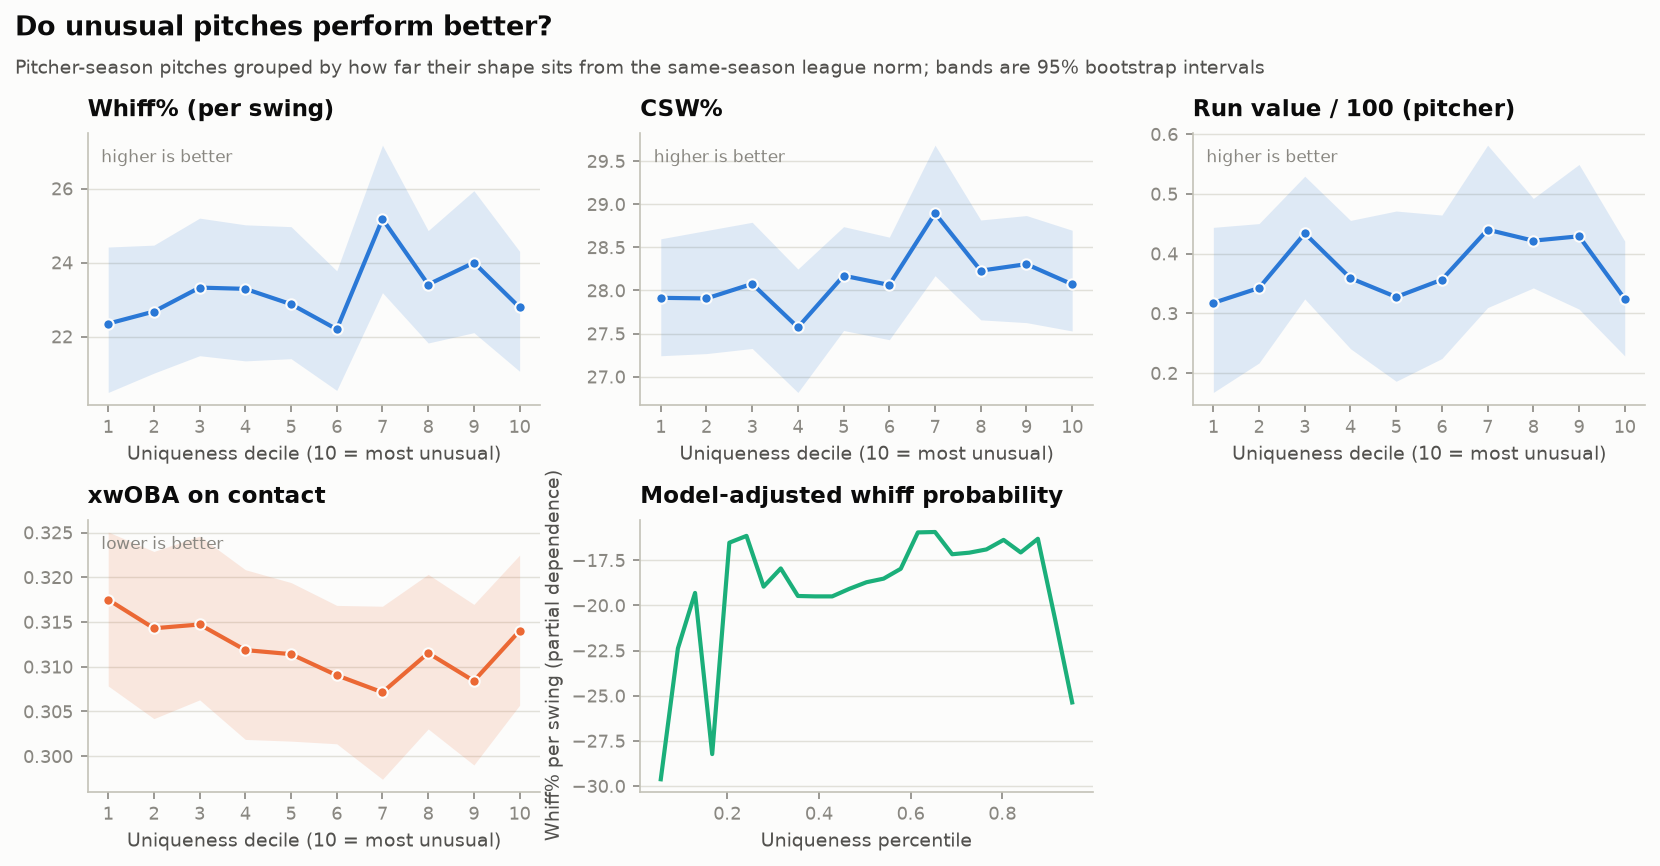
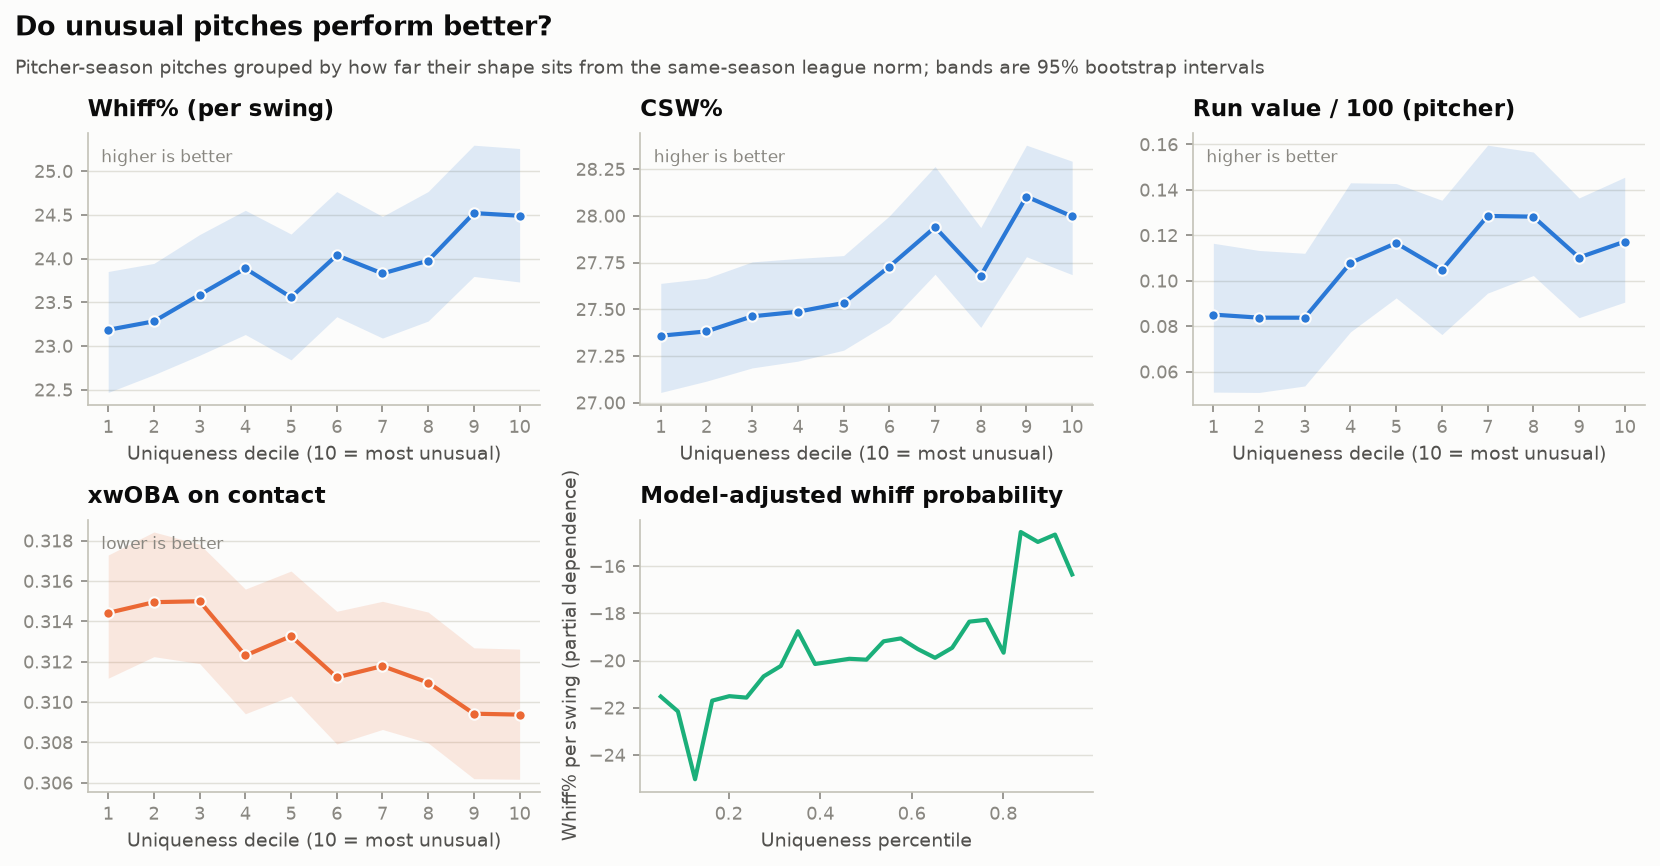
Replace fragile mixed model with an explicit within/between decomposition
MixedLM failed with singular matrices on three of four outcomes: the outcome
variances span five orders of magnitude and rescaling only rescued one. Pitcher-
by-family fixed effects absorbed by demeaning give the identical within
estimand, plus a companion between estimator that makes the selection channel
explicit. All four outcomes now estimate.

Claude-Session: https://claude.ai/code/session_01QgPyEmY3E2CMEeKDLGXdnm

diff --git a/analysis/scripts/20_outlier_effectiveness.py b/analysis/scripts/20_outlier_effectiveness.py
@@ -6,10 +6,10 @@ through four models that fail in different ways:
 
 1. Decile gradient -- assumption-free, but says nothing about why.
 2. Spline regression with controls -- flexible shape, but between-pitcher.
-3. Mixed model with a pitcher random intercept -- asks the within-pitcher
-   question: when a given pitcher's pitch becomes more unusual, does it get
-   better? This is what separates "unusual pitches are good" from "good
-   pitchers throw unusual pitches".
+3. Within/between decomposition -- the within estimator holds the pitcher
+   fixed and asks whether his own pitch improves as it drifts from the norm;
+   the between estimator asks whether the pitchers who own unusual pitches are
+   simply better. This separates the effect from the selection.
 4. Gradient boosting on the pitch grain -- does uniqueness add predictive
    signal beyond velocity, movement and location?
 
@@ -143,47 +143,76 @@ def spline_models(ars: pd.DataFrame) -> pd.DataFrame:
     return pd.DataFrame(rows)
 
 
-def mixed_models(ars: pd.DataFrame) -> pd.DataFrame:
-    """Pitcher random intercept: the within-pitcher uniqueness question.
+def within_between_models(ars: pd.DataFrame) -> pd.DataFrame:
+    """Separate "this pitch got weirder" from "weird pitchers are better".
 
-    uniq_pct is split into a pitcher's career mean (between component) and the
-    season-to-season deviation from it (within component). The within
-    coefficient answers whether the same pitcher's pitch improves when it drifts
-    away from the league.
+    Two estimators on the same panel of pitcher-pitches observed in at least
+    two seasons:
+
+    * **within** — pitcher-by-family fixed effects absorbed by demeaning, so
+      the coefficient comes only from a given pitcher's own pitch moving in and
+      out of the league norm across seasons. This is the causal-flavoured one:
+      pitcher talent is held constant by construction.
+    * **between** — one row per pitcher-pitch, regressing career-average
+      outcome on career-average uniqueness. This captures selection: whether
+      the pitchers who own unusual pitches are simply better.
+
+    A mixed model was tried first and proved numerically fragile: outcome
+    variances here span five orders of magnitude (whiff% around 80, xwOBAcon
+    around 0.0015) and three of four outcomes failed with singular matrices.
+    Demeaning gives the identical within estimand without the fit.
     """
     d = ars.dropna(subset=["uniq_pct"]).copy()
     d["velo_z"] = d.groupby(["family", "game_year"])["release_speed"].transform(
         lambda s: (s - s.mean()) / s.std(ddof=1))
     grp = d.groupby(["pitcher", "family"])["uniq_pct"]
     d["uniq_between"] = grp.transform("mean")
-    d["uniq_within"] = d["uniq_pct"] - d["uniq_between"]
-    d["year_f"] = d["game_year"].astype(str)
-    # keep pitcher-pitches observed in at least two seasons: only they carry
-    # within-pitcher information
     d["n_seasons"] = grp.transform("size")
+    d["unit"] = (d["pitcher"].astype(str) + "|" + d["family"].astype(str))
+
+    controls = ["velo_z", "zone_pct", "platoon_share"]
     rows = []
     for col in ["whiff_pct_eb", "csw_pct_eb", "rv100_eb", "xwobacon_eb"]:
-        sub = d.dropna(subset=[col, "velo_z", "zone_pct"])
+        sub = d.dropna(subset=[col] + controls)
         sub = sub[sub["n_seasons"] >= 2]
-        if len(sub) < 300 or sub["uniq_within"].abs().max() < 1e-9:
+        if len(sub) < 300:
             continue
-        try:
-            m = smf.mixedlm(
-                f"{col} ~ uniq_within + uniq_between + velo_z + zone_pct "
-                "+ platoon_share + C(family) + C(year_f)",
-                data=sub, groups=sub["pitcher"],
-            ).fit(method="lbfgs", maxiter=200)
-        except Exception as exc:  # pragma: no cover - defensive
-            print(f"  mixed model failed for {col}: {exc}")
-            continue
+
+        # ---- within: absorb pitcher-by-family effects -------------------
+        ydum = pd.get_dummies(sub["game_year"].astype(str), prefix="yr",
+                              drop_first=True, dtype=float)
+        X = pd.concat([sub[["uniq_pct"] + controls].astype(float), ydum], axis=1)
+        y = sub[col].astype(float)
+        unit = sub["unit"].to_numpy()
+        Xw = X - X.groupby(unit).transform("mean")
+        yw = y - y.groupby(unit).transform("mean")
+        keep = Xw.std() > 1e-12
+        Xw = Xw.loc[:, keep]
+        mw = sm.OLS(yw, sm.add_constant(Xw, has_constant="add")).fit(
+            cov_type="cluster", cov_kwds={"groups": sub["pitcher"]})
+
+        # ---- between: one row per pitcher-pitch --------------------------
+        agg = (sub.groupby(["unit", "family"])
+               .agg(**{col: (col, "mean"), "uniq": ("uniq_between", "first"),
+                       **{c: (c, "mean") for c in controls},
+                       "pitcher": ("pitcher", "first")})
+               .reset_index())
+        fdum = pd.get_dummies(agg["family"], prefix="fam", drop_first=True,
+                              dtype=float)
+        Xb = pd.concat([agg[["uniq"] + controls].astype(float), fdum], axis=1)
+        mb = sm.OLS(agg[col].astype(float),
+                    sm.add_constant(Xb, has_constant="add")).fit(
+            cov_type="cluster", cov_kwds={"groups": agg["pitcher"]})
+
         rows.append({
-            "outcome": col.replace("_eb", ""), "n": int(len(sub)),
-            "within_coef": float(m.params.get("uniq_within", np.nan)),
-            "within_se": float(m.bse.get("uniq_within", np.nan)),
-            "within_p": float(m.pvalues.get("uniq_within", np.nan)),
-            "between_coef": float(m.params.get("uniq_between", np.nan)),
-            "between_se": float(m.bse.get("uniq_between", np.nan)),
-            "between_p": float(m.pvalues.get("uniq_between", np.nan)),
+            "outcome": col.replace("_eb", ""),
+            "n_within": int(len(sub)), "n_units": int(sub["unit"].nunique()),
+            "within_coef": float(mw.params.get("uniq_pct", np.nan)),
+            "within_se": float(mw.bse.get("uniq_pct", np.nan)),
+            "within_p": float(mw.pvalues.get("uniq_pct", np.nan)),
+            "between_coef": float(mb.params.get("uniq", np.nan)),
+            "between_se": float(mb.bse.get("uniq", np.nan)),
+            "between_p": float(mb.pvalues.get("uniq", np.nan)),
         })
     df = pd.DataFrame(rows)
     if not df.empty:
@@ -332,10 +361,10 @@ def main() -> None:
         print("\n=== spline regression: 10th → 90th uniqueness percentile ===")
         print(sp.round(4).to_string(index=False))
 
-    mm = mixed_models(scored)
+    mm = within_between_models(scored)
     if not mm.empty:
-        D.save_result(mm, "s5_mixed_models")
-        print("\n=== within-pitcher (mixed model) ===")
+        D.save_result(mm, "s5_within_between")
+        print("\n=== within-pitcher vs between-pitcher ===")
         print(mm.round(4).to_string(index=False))
 
     gbm, extra = gbm_incremental(scored, years)
